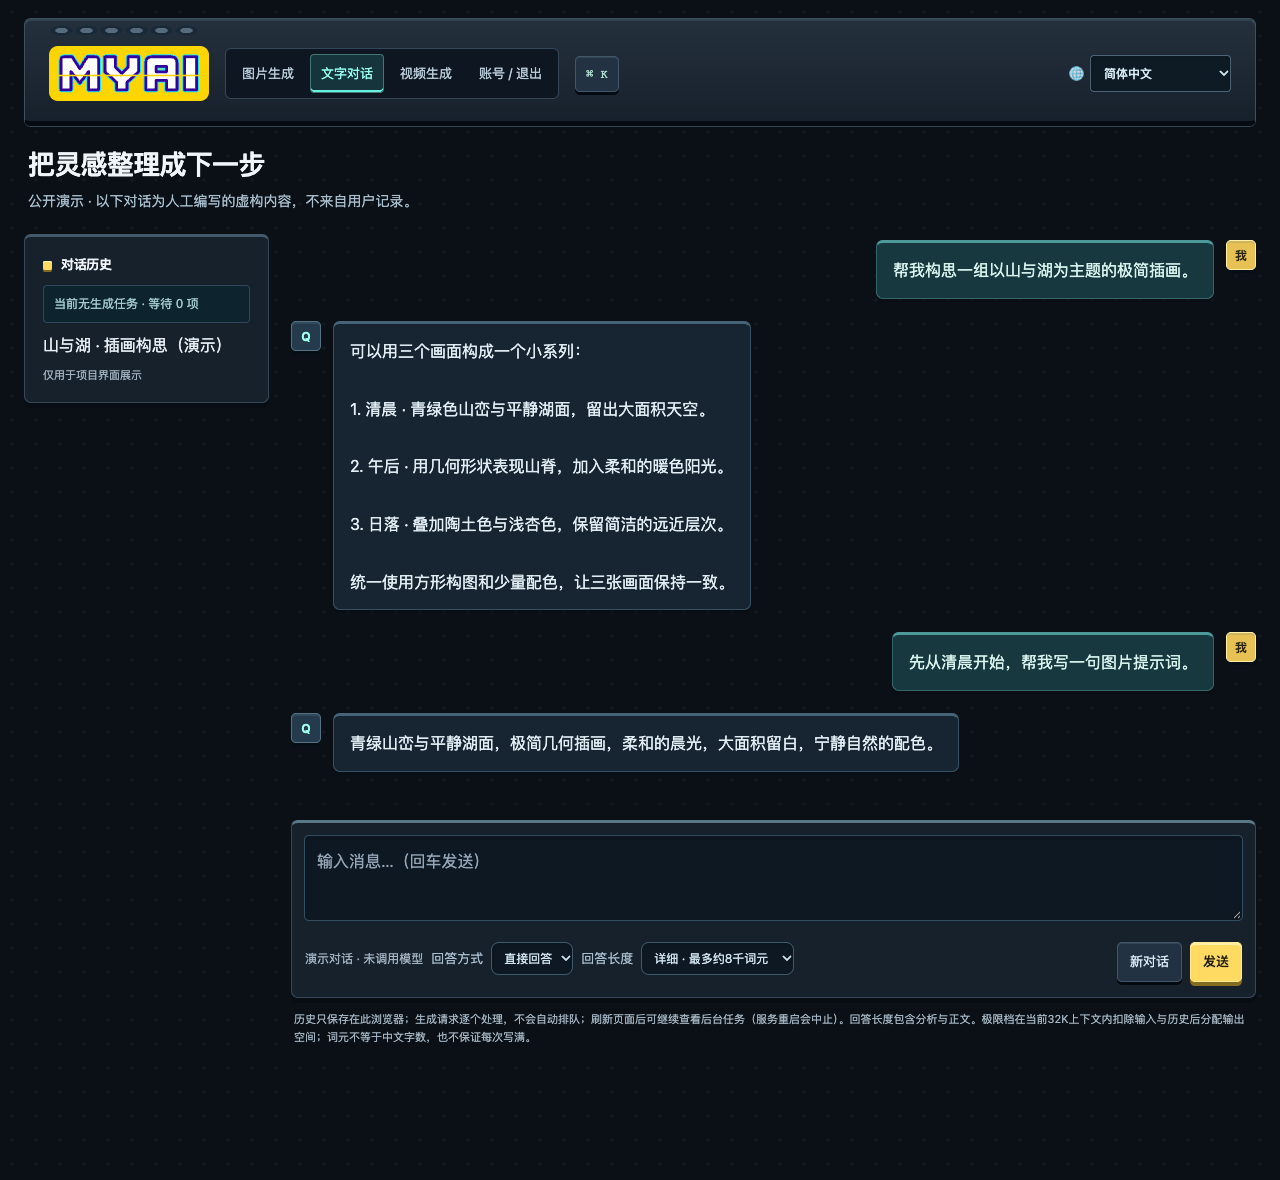
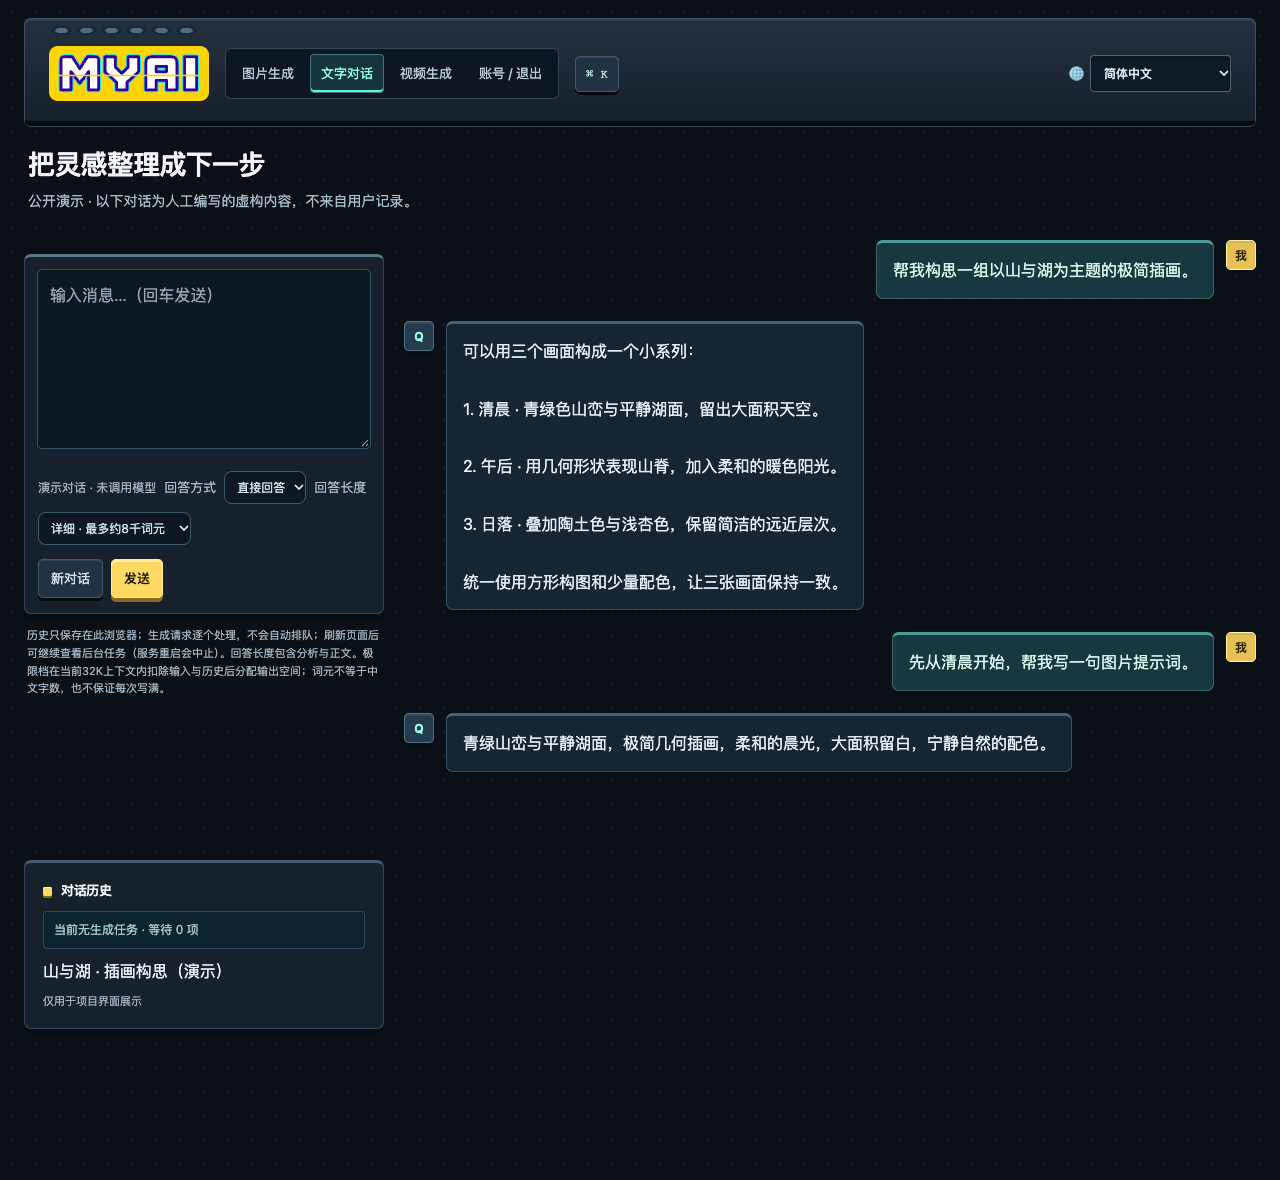
Place studio inputs on the left and generated content on the right

diff --git a/src/studio_theme.css b/src/studio_theme.css
@@ -45,7 +45,7 @@ body.brick-studio{margin:0;min-height:100vh;color:#e7eef4;background:radial-grad
 .brick-studio .panel,.brick-studio .card,.brick-studio .history-panel,.brick-studio .composer-box,.brick-studio.studio-account main>section{background:var(--brick-panel);border:1px solid var(--brick-line);border-top:3px solid #43596b;border-radius:7px;box-shadow:0 5px #050a1080;min-width:0}
 .brick-studio .panel{padding:22px}
 .brick-studio .panel>h2:before,.brick-studio .history-heading:before{content:"";display:inline-block;width:9px;height:9px;margin-right:9px;background:var(--brick-yellow);border-radius:2px;box-shadow:inset 0 1px #fff4bf,0 2px #816925;vertical-align:middle}
-.brick-studio.studio-image main.layout,.brick-studio.studio-video main.layout{display:grid;grid-template-columns:minmax(0,1fr) 360px;grid-template-areas:"results settings";gap:20px;max-width:1440px;padding:0 0 48px;margin:0 auto;align-items:start}
+.brick-studio.studio-image main.layout,.brick-studio.studio-video main.layout{display:grid;grid-template-columns:360px minmax(0,1fr);grid-template-areas:"settings results";gap:20px;max-width:1440px;padding:0 0 48px;margin:0 auto;align-items:start}
 .brick-studio.studio-image main.layout>.panel,.brick-studio.studio-video main.layout>.panel{grid-area:settings}
 .brick-studio.studio-image main.layout>section:not(.panel),.brick-studio.studio-video main.layout>section:not(.panel){grid-area:results;min-width:0}
 .brick-studio .toolbar{padding:16px 18px;background:#141f2a;border:1px solid #344858;border-top:3px solid #3d5668;border-radius:6px;margin-bottom:16px;align-items:center}
@@ -138,7 +138,7 @@ body.brick-studio{margin:0;min-height:100vh;color:#e7eef4;background:radial-grad
 .brick-studio .studio-command-links a{display:block;padding:14px;background:#223746;border:1px solid #425d71;border-radius:4px;text-decoration:none;color:#d6eaf2}
 .brick-studio .studio-command-links a:hover{background:#2c4b59;border-color:var(--brick-cyan)}
 @media(max-width:1490px){.brick-studio header{margin-left:24px;margin-right:24px}.brick-studio.studio-image main.layout,.brick-studio.studio-video main.layout,.brick-studio.studio-chat main{padding-left:24px;padding-right:24px}.brick-studio.studio-account main{padding-left:24px;padding-right:24px}.brick-studio.studio-account header{margin-left:0;margin-right:0}}
-@media(max-width:1080px){.brick-studio header .badge{display:none}.brick-studio .header-actions{width:100%}.brick-studio.studio-image main.layout,.brick-studio.studio-video main.layout{grid-template-columns:minmax(0,1fr) 330px;gap:16px}.brick-studio .panel{padding:18px}.brick-studio.studio-chat .layout{grid-template-columns:210px minmax(0,1fr)}}
+@media(max-width:1080px){.brick-studio header .badge{display:none}.brick-studio .header-actions{width:100%}.brick-studio.studio-image main.layout,.brick-studio.studio-video main.layout{grid-template-columns:330px minmax(0,1fr);gap:16px}.brick-studio .panel{padding:18px}.brick-studio.studio-chat .layout{grid-template-columns:210px minmax(0,1fr)}}
 @media(max-width:850px){.brick-studio header{margin:12px 14px 18px;padding:26px 16px 16px;gap:12px}.brick-studio.studio-image main.layout,.brick-studio.studio-video main.layout{grid-template-columns:minmax(0,1fr);grid-template-areas:"settings" "results";padding:0 14px 32px}.brick-studio.studio-chat main{padding:0 14px 24px}.brick-studio.studio-chat .layout{grid-template-columns:minmax(0,1fr)}.brick-studio .history-panel{position:static}.brick-studio .history-list{max-height:190px}.brick-studio .entry-nav,.brick-studio header nav{flex:1 1 auto}.brick-studio .entry-link,.brick-studio header nav a{font-size:12px;padding:8px}.brick-studio .header-actions{gap:10px}.brick-studio .studio-language{margin:0 0 0 auto}.brick-studio .toolbar{padding:14px}.brick-studio.studio-account main{margin-top:12px;padding:0 14px 32px}.brick-studio.studio-account header{margin-left:0;margin-right:0}.brick-studio.studio-account #login-section{padding:20px}.brick-studio .composer{position:static}}
 @media(max-width:480px){.brick-studio .grid2{grid-template-columns:minmax(0,1fr)}.brick-studio :where(input,select,textarea){font-size:16px}.brick-studio .entry-nav{width:100%}.brick-studio .entry-link{flex:1 1 40%;text-align:center}.brick-studio .studio-language select{max-width:200px}.brick-studio .panel,.brick-studio .card{padding:16px}.brick-studio .toolbar>div{width:100%}.brick-studio .toolbar select{min-width:0;max-width:100%}.brick-studio .bubble{padding:12px;max-width:calc(100% - 38px)}.brick-studio .message{gap:8px}.brick-studio .resolution-grid{grid-template-columns:repeat(2,minmax(0,1fr))}.brick-studio .resolution-grid button{font-size:12px}.brick-studio.studio-account header{display:flex}.brick-studio.studio-account header small,.brick-studio.studio-account header h1{width:100%}.brick-studio.studio-account header nav{width:100%}.brick-studio .preview-toolbar{gap:7px}.brick-studio .preview-toolbar button{font-size:12px}.brick-studio .task-identity input{font-size:11px}}
 @media(pointer:coarse){.brick-studio :where(button,.button,summary,.entry-link,header nav a){min-height:44px}.brick-studio .ref button{min-height:40px}}
@@ -149,3 +149,14 @@ body.brick-studio{margin:0;min-height:100vh;color:#e7eef4;background:radial-grad
 .brick-studio header h1:has(.myai-logo){margin:5px 0}
 .brick-studio header>small:has(.myai-logo){display:block}
 .brick-studio #submit,.brick-studio button.primary{background:#ffd500;color:#161021}
+
+/* Input and actions on the left, generated content on the right. */
+.brick-studio.studio-chat .layout{display:grid;grid-template-columns:360px minmax(0,1fr);grid-template-areas:"composer messages" "history messages";align-items:start;gap:20px}
+.brick-studio.studio-chat .workspace{display:contents}
+.brick-studio.studio-chat .composer{grid-area:composer;position:static;margin:0;min-width:0}
+.brick-studio.studio-chat .history-panel{grid-area:history;position:static;min-width:0}
+.brick-studio.studio-chat .messages{grid-area:messages;min-width:0}
+.brick-studio.studio-chat .composer .controls,.brick-studio.studio-chat .composer .options{flex-wrap:wrap}
+.brick-studio.studio-chat .composer textarea{min-height:180px}
+@media(min-width:851px) and (max-width:1100px){.brick-studio.studio-chat .layout{grid-template-columns:330px minmax(0,1fr)}}
+@media(max-width:850px){.brick-studio.studio-chat .layout{grid-template-columns:minmax(0,1fr);grid-template-areas:"composer" "messages" "history"}.brick-studio.studio-chat .composer textarea{min-height:100px}}

diff --git a/README.md b/README.md
@@ -17,7 +17,7 @@ Translations are bundled locally and do not call a cloud translation service dur
 
 ## Brick Cyber Studio
 
-The image, chat, experimental video and account pages share a dark modular design with brick studs, mechanical button feedback, cyan selection states and yellow primary actions. On desktop, image/video results sit beside the parameter panel; smaller screens follow the form-to-results order.
+The image, chat, experimental video and account pages share a dark modular design with brick studs, mechanical button feedback, cyan selection states and yellow primary actions. On desktop, image/video/chat inputs and actions are on the left, with generated content on the right; smaller screens show inputs before results.
 
 Use **⌘ K / Ctrl K** for workspace navigation. On image/video forms, **⌘ Enter / Ctrl Enter** uses the regular validated submission flow; disabled actions stay disabled. Video capability notes remain available in an expandable section. The redesign retains all 33 languages, existing model limits and account checks.
 

diff --git a/README.zh-CN.md b/README.zh-CN.md
@@ -17,7 +17,7 @@ Apple Silicon Mac 本地图像、文字和实验视频工作室。
 
 ## 积木赛博实验室
 
-图片、对话、实验视频和账号页面统一采用深色积木模块、凸点与拼缝、机械按键反馈、青色选中态和黄色主操作键。桌面端将图片/视频结果与参数面板并排，窄屏按填写表单、查看结果的顺序排列。
+图片、对话、实验视频和账号页面统一采用深色积木模块、凸点与拼缝、机械按键反馈、青色选中态和黄色主操作键。桌面端图片、视频、聊天的输入和操作位于左侧，生成内容位于右侧；窄屏先显示输入，再显示结果。
 
 **⌘ K / Ctrl K** 打开工作区快捷导航；图片/视频表单内 **⌘ Enter / Ctrl Enter** 沿用正常校验后提交，禁用操作仍然禁用。视频能力说明可展开查看。33种语言、模型能力限制和账号安全检查均保留。
 
